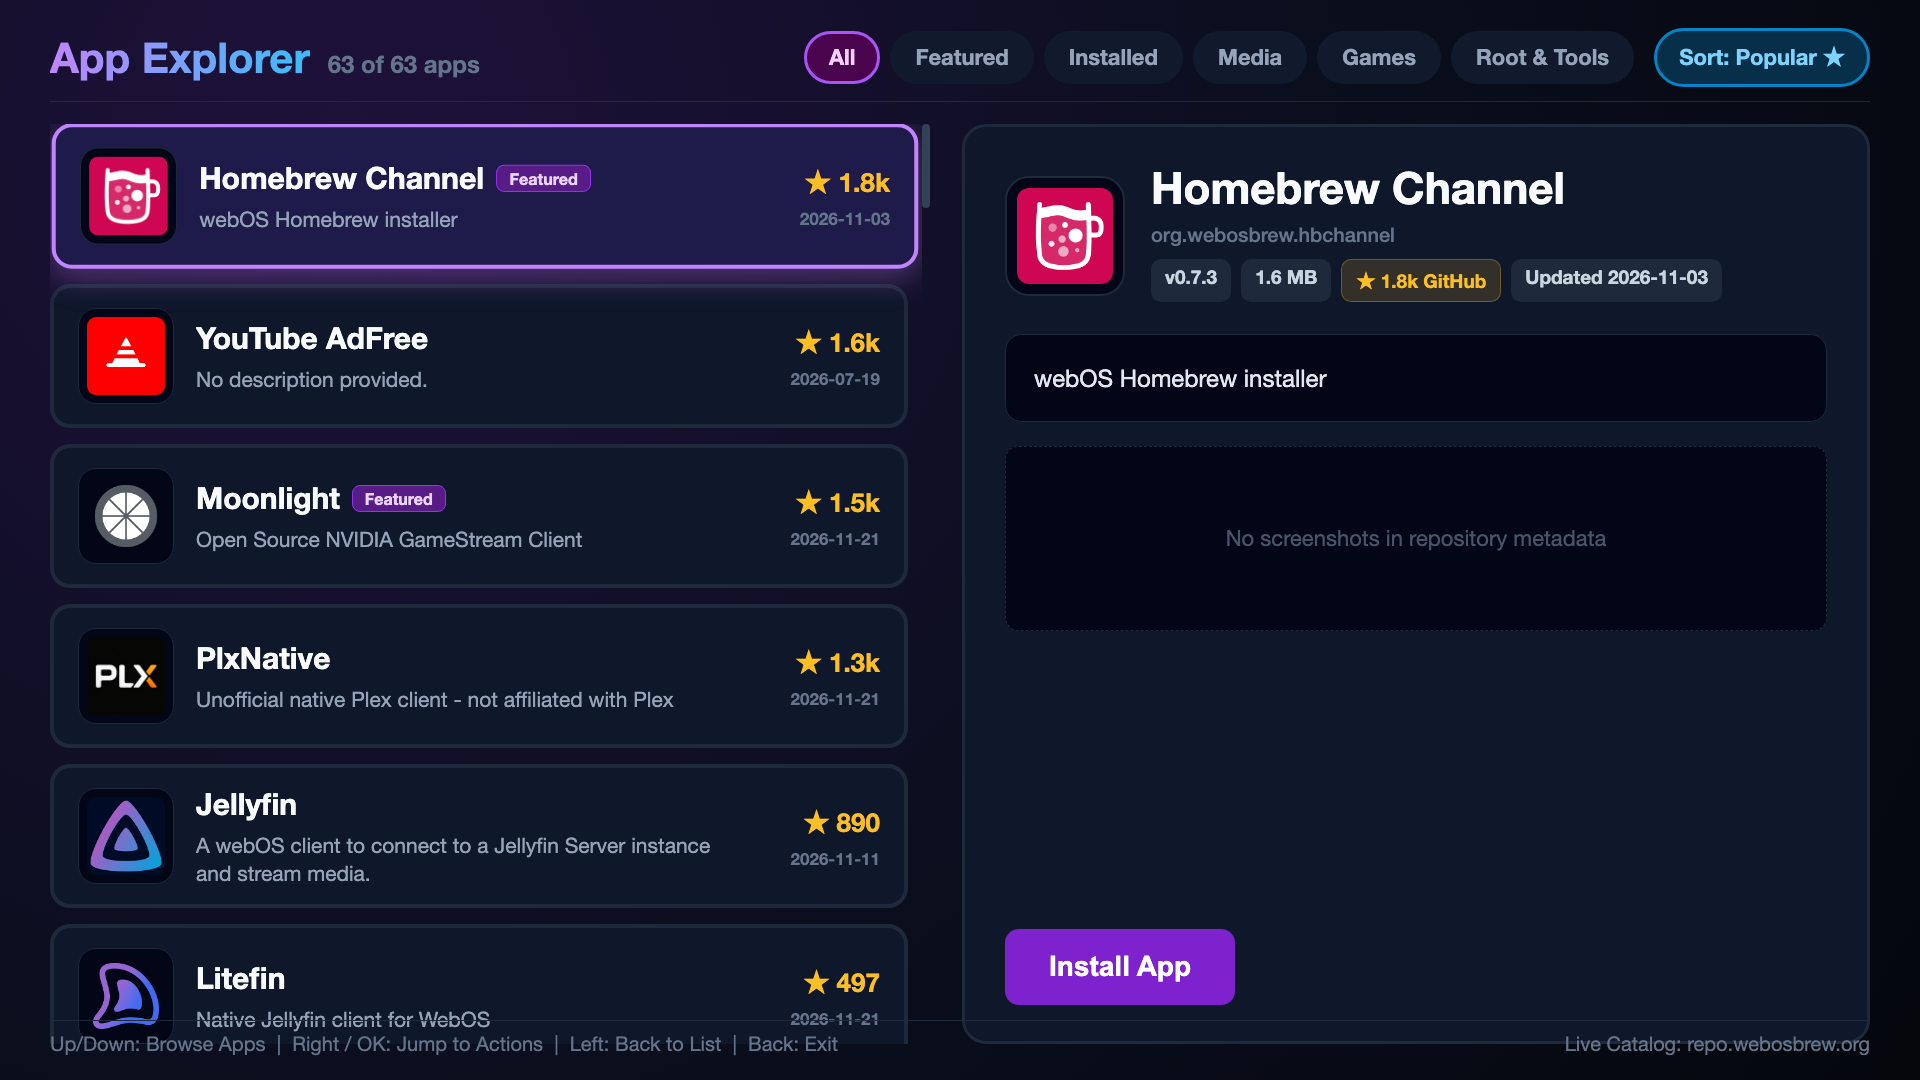
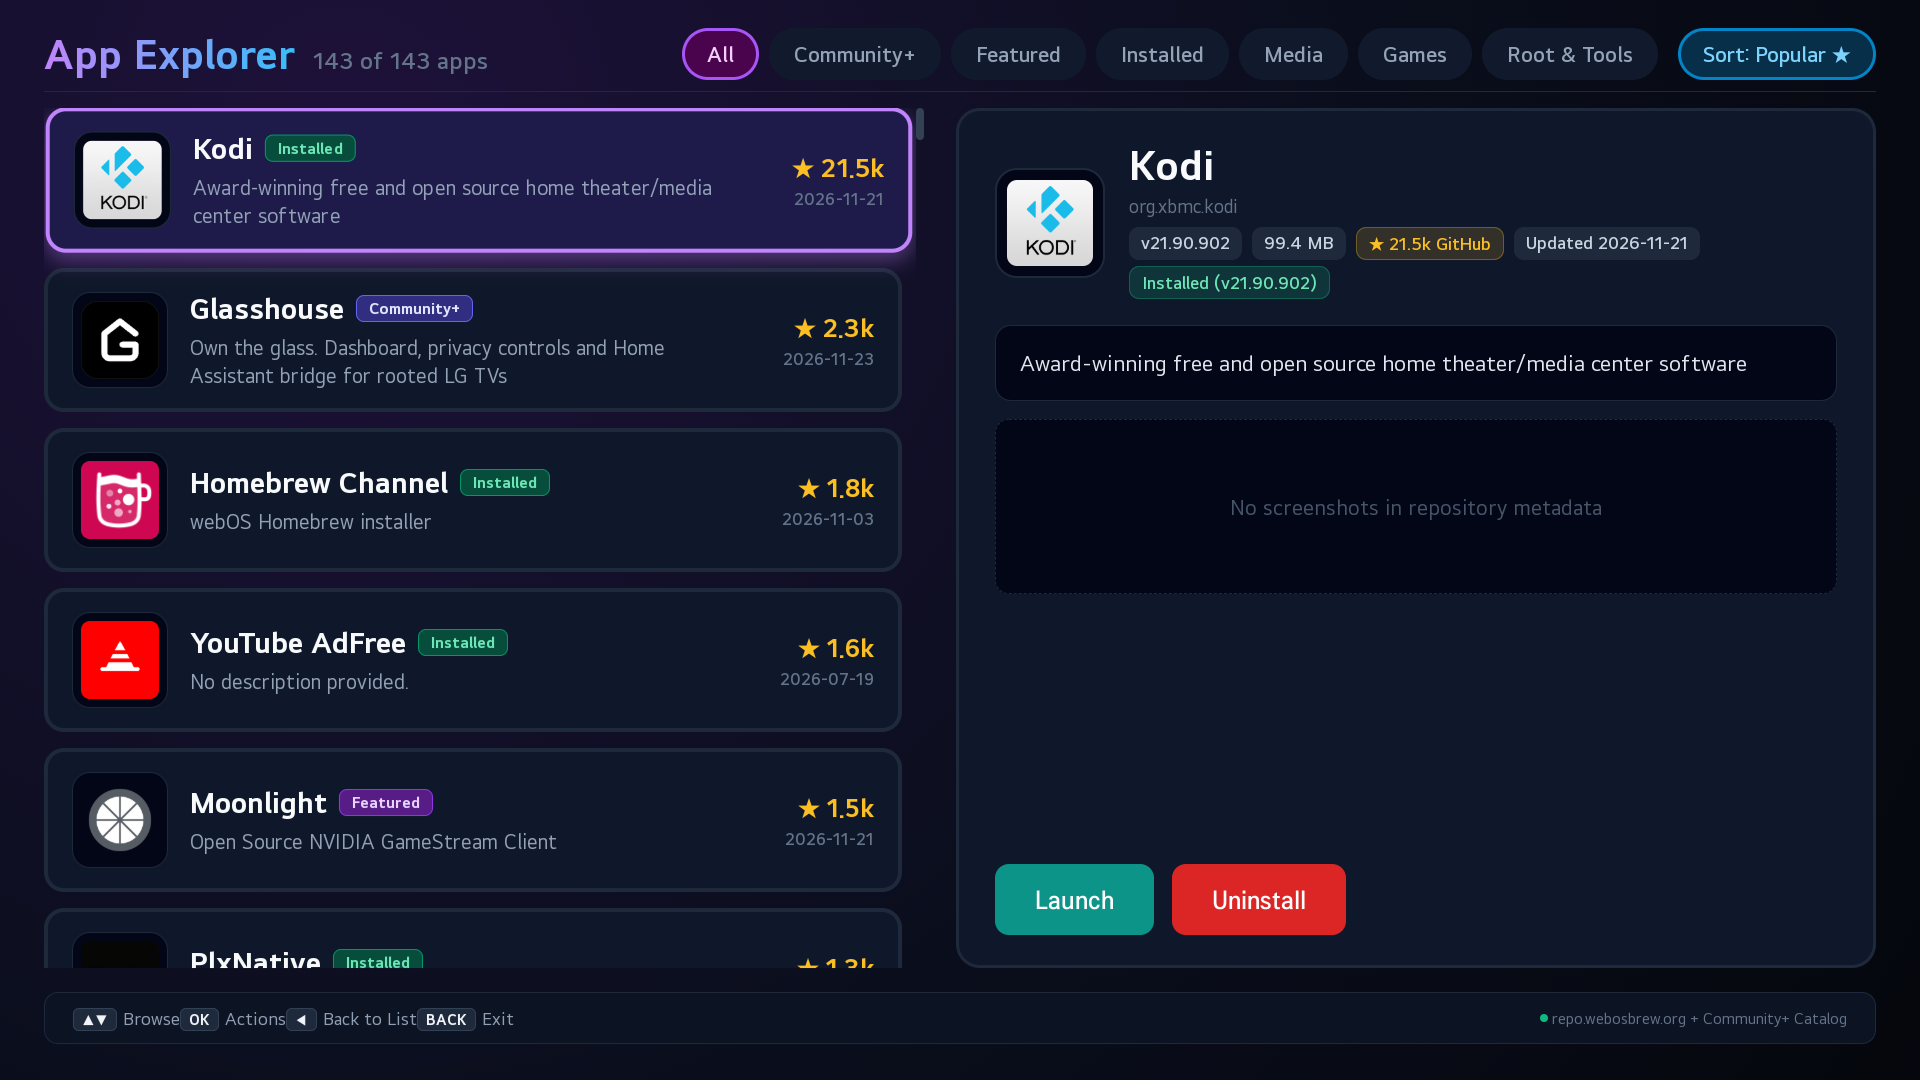
fix(ui): eliminate footer overlap with dedicated nav bar and fix installed app detection

diff --git a/app/index.html b/app/index.html
@@ -16,19 +16,19 @@
   .shell {
     width: 1920px;
     height: 1080px;
-    padding: 30px 50px 24px 50px;
+    padding: 28px 44px 24px 44px;
     display: flex;
     flex-direction: column;
   }
 
   /* Top Header & Filter Bar */
   .topbar {
-    height: 72px;
+    height: 64px;
     display: flex;
     align-items: center;
     justify-content: space-between;
-    margin-bottom: 22px;
-    padding-bottom: 16px;
+    margin-bottom: 16px;
+    padding-bottom: 12px;
     border-bottom: 1px solid #1e293b;
     flex-shrink: 0;
   }
@@ -86,15 +86,17 @@
 
   /* Split Main Content */
   .main {
-    flex: 1;
+    height: 860px;
+    flex: none;
     display: flex;
-    min-height: 0;
+    margin-bottom: 24px;
+    overflow: hidden;
   }
 
   /* Left Pane: App List (Roomy Cards, Standard Block Scroller) */
   .list-pane {
     width: 880px;
-    height: 920px;
+    height: 860px;
     overflow-y: scroll;
     overflow-x: hidden;
     padding-right: 14px;
@@ -215,12 +217,12 @@
   /* Right Pane: Live Detail Preview */
   .detail-pane {
     flex: 1;
-    height: 920px;
+    height: 100%;
     margin-left: 32px;
     background: #0f172a;
     border: 3px solid #1e293b;
     border-radius: 24px;
-    padding: 36px 40px;
+    padding: 30px 36px;
     display: flex;
     flex-direction: column;
     min-width: 0;
@@ -228,18 +230,18 @@
   .detail-header {
     display: flex;
     align-items: center;
-    margin-bottom: 24px;
+    margin-bottom: 20px;
     flex-shrink: 0;
   }
   .detail-icon {
-    width: 120px;
-    height: 120px;
-    border-radius: 24px;
+    width: 110px;
+    height: 110px;
+    border-radius: 22px;
     object-fit: contain;
     background: #020617;
     padding: 10px;
     border: 2px solid #1e293b;
-    margin-right: 26px;
+    margin-right: 24px;
     flex-shrink: 0;
   }
   .detail-title-wrap {
@@ -247,19 +249,19 @@
     min-width: 0;
   }
   .detail-title {
-    font-size: 44px;
+    font-size: 42px;
     font-weight: 800;
     color: #f8fafc;
-    margin-bottom: 8px;
+    margin-bottom: 6px;
     line-height: 1.15;
     white-space: nowrap;
     overflow: hidden;
     text-overflow: ellipsis;
   }
   .detail-id {
-    font-size: 20px;
+    font-size: 19px;
     color: #64748b;
-    margin-bottom: 12px;
+    margin-bottom: 10px;
     font-weight: 500;
   }
   .meta-chips {
@@ -268,14 +270,14 @@
   }
   .chip {
     display: inline-block;
-    font-size: 19px;
+    font-size: 18px;
     font-weight: 600;
-    padding: 6px 14px;
+    padding: 5px 12px;
     border-radius: 10px;
     background: #1e293b;
     color: #cbd5e1;
     margin-right: 10px;
-    margin-bottom: 8px;
+    margin-bottom: 6px;
   }
   .chip.star-chip { color: #fbbf24; background: rgba(251, 191, 36, 0.15); border: 1px solid rgba(251, 191, 36, 0.3); }
   .chip.root-chip { color: #fca5a5; background: rgba(239, 68, 68, 0.18); border: 1px solid rgba(239, 68, 68, 0.35); }
@@ -283,23 +285,23 @@
   .chip.community-chip { color: #c7d2fe; background: rgba(99, 102, 241, 0.2); border: 1px solid rgba(99, 102, 241, 0.4); }
 
   .detail-desc {
-    font-size: 24px;
-    line-height: 1.6;
+    font-size: 23px;
+    line-height: 1.5;
     color: #e2e8f0;
     background: #020617;
     border: 1px solid #1e293b;
     border-radius: 16px;
-    padding: 24px 28px;
-    margin-bottom: 24px;
-    max-height: 230px;
+    padding: 20px 24px;
+    margin-bottom: 18px;
+    max-height: 200px;
     overflow-y: auto;
     flex-shrink: 0;
   }
 
   .shots {
     display: flex;
-    margin-bottom: 24px;
-    height: 185px;
+    margin-bottom: 18px;
+    height: 175px;
     flex-shrink: 0;
   }
   .shots img {
@@ -330,9 +332,9 @@
     flex-shrink: 0;
   }
   .act-btn {
-    padding: 18px 40px;
+    padding: 16px 36px;
     border-radius: 14px;
-    font-size: 28px;
+    font-size: 26px;
     font-weight: 700;
     border: 4px solid transparent;
     background: #1e293b;
@@ -357,16 +359,47 @@
   }
 
   .footer {
-    height: 36px;
-    margin-top: 14px;
-    padding-top: 10px;
-    border-top: 1px solid #1e293b;
-    font-size: 20px;
-    color: #64748b;
+    height: 52px;
+    background: #0c1322;
+    border: 1px solid #1e293b;
+    border-radius: 14px;
+    padding: 0 28px;
     display: flex;
-    justify-content: space-between;
     align-items: center;
+    justify-content: space-between;
+    font-size: 18px;
+    color: #94a3b8;
     flex-shrink: 0;
+  }
+  .footer-hints {
+    display: flex;
+    align-items: center;
+    gap: 18px;
+  }
+  .k-cap {
+    background: #1e293b;
+    border: 1px solid #334155;
+    padding: 2px 8px;
+    border-radius: 6px;
+    color: #f1f5f9;
+    font-weight: 700;
+    font-size: 15px;
+    margin-right: 6px;
+  }
+  .footer-status {
+    display: flex;
+    align-items: center;
+    gap: 8px;
+    font-size: 16px;
+    color: #64748b;
+  }
+  .live-dot {
+    display: inline-block;
+    width: 8px;
+    height: 8px;
+    border-radius: 50%;
+    background: #10b981;
+    margin-right: 4px;
   }
 </style>
 </head>
@@ -388,8 +421,16 @@
   </div>
 
   <div class="footer">
-    <span>Up/Down: Browse Apps &nbsp;|&nbsp; Right / OK: Jump to Actions &nbsp;|&nbsp; Left: Back to List &nbsp;|&nbsp; Back: Exit</span>
-    <span>Live Catalog: repo.webosbrew.org + Community+ Catalog</span>
+    <div class="footer-hints">
+      <span><span class="k-cap">▲▼</span>Browse</span>
+      <span><span class="k-cap">OK</span>Actions</span>
+      <span><span class="k-cap">◀</span>Back to List</span>
+      <span><span class="k-cap">BACK</span>Exit</span>
+    </div>
+    <div class="footer-status">
+      <span class="live-dot"></span>
+      repo.webosbrew.org + Community+ Catalog
+    </div>
   </div>
 </div>
 
@@ -451,7 +492,22 @@
       bridge.onservicecallback = function(raw) {
         try {
           var res = JSON.parse(raw);
-          cb(null, res.stdoutString || "");
+          var out = res.stdoutString;
+          if (typeof out !== "string" && res.stdoutBytes) {
+            try {
+              var bin = atob(res.stdoutBytes);
+              if (typeof TextDecoder !== "undefined") {
+                var bytes = new Uint8Array(bin.length);
+                for (var b = 0; b < bin.length; b++) bytes[b] = bin.charCodeAt(b);
+                out = new TextDecoder("utf-8").decode(bytes);
+              } else {
+                out = bin;
+              }
+            } catch (decErr) {
+              try { out = atob(res.stdoutBytes); } catch (e2) { out = ""; }
+            }
+          }
+          cb(null, out || "");
         } catch (e) { cb(e, ""); }
       };
       bridge.call(
@@ -461,7 +517,7 @@
     } catch (err) { cb(err, ""); }
   }
 
-  var STORE_HELPER = 'DIR="/media/developer/apps/usr/palm/applications/com.github.dasilva333.storeplus/bin/webos-store.sh"; if [ -f "$DIR" ]; then sh "$DIR"; else /var/lib/webosbrew/bin/webos-store.sh; fi';
+  var STORE_HELPER = 'H="/media/developer/apps/usr/palm/applications/com.github.dasilva333.storeplus/bin/webos-store.sh"; [ -f "$H" ] || H="/var/lib/webosbrew/bin/webos-store.sh"; sh "$H"';
 
   function execStore(subcmd, cb) {
     execRoot(STORE_HELPER + " " + subcmd, cb);
@@ -753,7 +809,11 @@
       busy = false;
       refreshInstalled(function() {
         renderList();
-        renderDetail("Installed " + p.title + "!");
+        if (installedMap[p.id]) {
+          renderDetail("Installed " + p.title + "!");
+        } else {
+          renderDetail("Installation failed or timed out.");
+        }
       });
     });
   }
@@ -767,7 +827,11 @@
       busy = false;
       refreshInstalled(function() {
         renderList();
-        renderDetail("Uninstalled " + p.title);
+        if (!installedMap[p.id]) {
+          renderDetail("Uninstalled " + p.title);
+        } else {
+          renderDetail("Uninstall failed or timed out.");
+        }
       });
     });
   }
